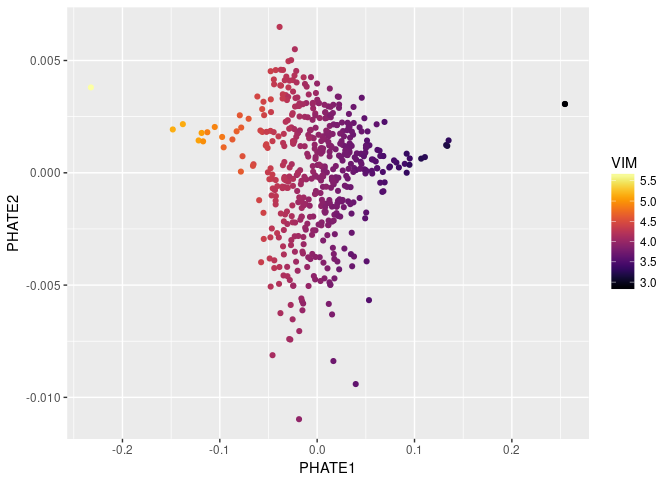
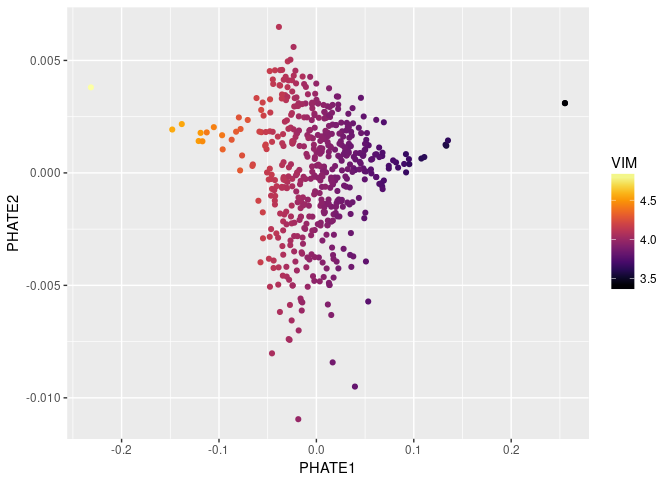
update README

diff --git a/Rmagic/README.md b/Rmagic/README.md
@@ -76,10 +76,10 @@ library(ggplot2)
 library(viridis)
 #> Loading required package: viridisLite
 library(phateR)
-#>
+#> 
 #> Attaching package: 'phateR'
 #> The following object is masked from 'package:Rmagic':
-#>
+#> 
 #>     library.size.normalize
 ```
 
@@ -144,13 +144,13 @@ result to the argument `init` to avoid recomputing intermediate
 steps.
 
 ``` r
-data_MAGIC <- magic(magic_testdata, genes=c("VIM", "CDH1", "ZEB1"), t=4, init=data_MAGIC)
+data_MAGIC <- magic(magic_testdata, genes=c("VIM", "CDH1", "ZEB1"), t=6, init=data_MAGIC)
 ggplot(data_MAGIC) +
   geom_point(aes(VIM, CDH1, colour=ZEB1)) +
   scale_colour_viridis(option="B")
 ```
 
-<img src="man/figures/README-unnamed-chunk-1-1.png" width="100%" />
+<img src="man/figures/README-plot_reduced_t-1.png" width="100%" />
 
 We can look at the entire smoothed matrix with `genes='all_genes'`,
 passing the original result to the argument `init` to avoid recomputing
@@ -159,20 +159,20 @@ a lot of
 memory.
 
 ``` r
-data_MAGIC <- magic(magic_testdata, genes="all_genes", t=4, init=data_MAGIC)
+data_MAGIC <- magic(magic_testdata, genes="all_genes", t=6, init=data_MAGIC)
 as.data.frame(data_MAGIC)[1:5, 1:10]
 #>        A1BG-AS1      AAMDC      AAMP     AARSD1     ABCA12      ABCG2
-#> 6564 0.02318932 0.06636833 0.1814952 0.01998665 0.03509270 0.01091799
-#> 3835 0.02305522 0.06726339 0.1597559 0.01630487 0.02857813 0.01335037
-#> 6318 0.02640804 0.06546350 0.1934657 0.01469336 0.03087314 0.01564654
-#> 3284 0.02287164 0.06194795 0.1637859 0.01656443 0.02939938 0.01340856
-#> 1171 0.02824691 0.06262350 0.1767155 0.01483140 0.03406291 0.01458588
-#>          ABHD13   AC007773.2   AC011998.4  AC013470.6
-#> 6564 0.06926381 0.0007282491 0.0012694154 0.003669113
-#> 3835 0.06487983 0.0007331720 0.0016187119 0.002646376
-#> 6318 0.07547549 0.0012984700 0.0020315661 0.005617329
-#> 3284 0.06620499 0.0007615835 0.0007540187 0.001993851
-#> 1171 0.07200313 0.0012521371 0.0025994098 0.005028384
+#> 6564 0.02547428 0.06396845 0.1732406 0.01662639 0.03165963 0.01321600
+#> 3835 0.02530630 0.06340049 0.1644346 0.01595464 0.02956863 0.01387038
+#> 6318 0.02675641 0.06392424 0.1769904 0.01533683 0.03143977 0.01468506
+#> 3284 0.02492706 0.06235185 0.1650386 0.01619631 0.02940383 0.01365444
+#> 1171 0.02741414 0.06310647 0.1727671 0.01539614 0.03207575 0.01466226
+#>          ABHD13   AC007773.2  AC011998.4  AC013470.6
+#> 6564 0.07026219 0.0010481534 0.001706211 0.003337107
+#> 3835 0.06842053 0.0010290600 0.001740188 0.002713894
+#> 6318 0.07229419 0.0012075717 0.002015567 0.004129593
+#> 3284 0.06950077 0.0009517399 0.001459601 0.002545323
+#> 1171 0.07084005 0.0012504564 0.002197020 0.003821794
 ```
 
 ### Visualizing MAGIC values on PCA
